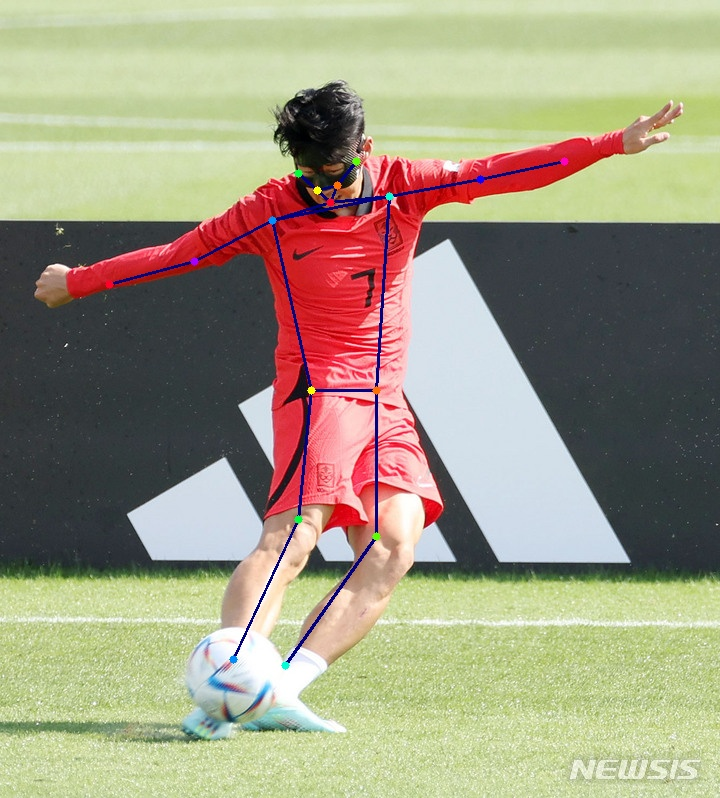
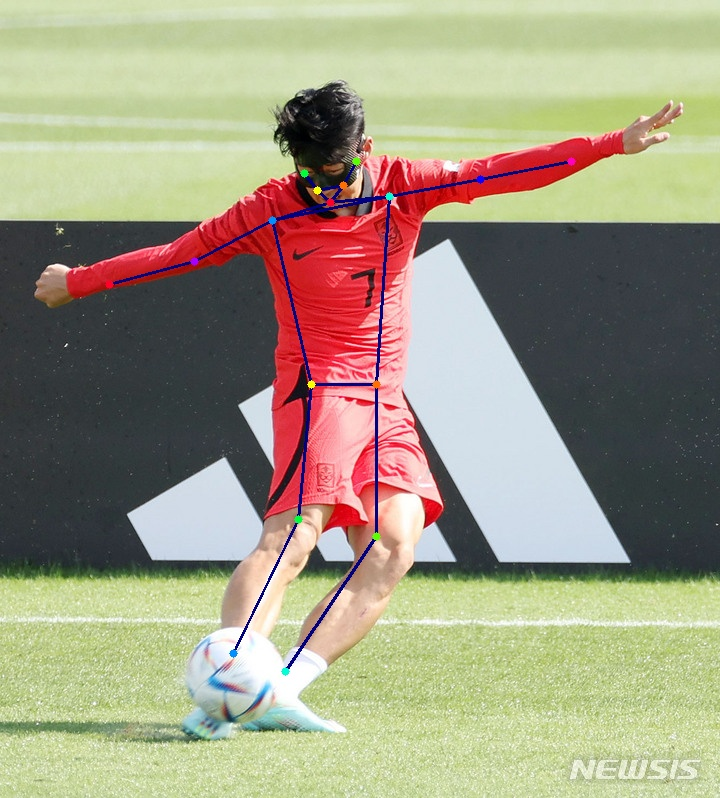
Add result of the example

diff --git a/inference.py b/inference.py
@@ -41,9 +41,11 @@ def inference(img_path: Path, img_size: tuple[int, int],
     
     # Feed to model
     tic = time()
-    heatmaps = vit_pose(img_tensor).detach().cpu().numpy()
+    heatmaps = vit_pose(img_tensor).detach().cpu().numpy() # N, 17, h/4, w/4
     elapsed_time = time()-tic
     print(f">>> Output size: {heatmaps.shape} ---> {elapsed_time:.4f} sec. elapsed [{elapsed_time**-1: .1f} fps]\n")
+    
+    
     
     kpts, probs = keypoints_from_heatmaps(heatmaps=heatmaps,
                                           center=np.array([[org_w//2, org_h//2]]), # x, y
@@ -54,7 +56,8 @@ def inference(img_path: Path, img_size: tuple[int, int],
                                           valid_radius_factor=0.0546875,
                                           use_udp=False,
                                           target_type='GaussianHeatmap')
-    points = np.concatenate([kpts[:, :, ::-1], probs], axis=2) # batch, num_people, (2+1)
+    print(kpts.shape, probs.shape)
+    points = np.concatenate([kpts[:, :, ::-1], probs], axis=2) # N, 17, (2+1)
 
     # Visualization 
     if save_result:
@@ -81,6 +84,8 @@ if __name__ == "__main__":
     CKPT_PATH = f"{CUR_DIR}/vitpose-b-multi-coco.pth"
     
     img_size = data_cfg['image_size']
+    if type(args.image_path) != list:
+         args.image_path = [args.image_path]
     for img_path in args.image_path:
         print(img_path)
         keypoints = inference(img_path=img_path, img_size=img_size, model_cfg=model_cfg, ckpt_path=CKPT_PATH, 

diff --git a/README.md b/README.md
@@ -1,5 +1,6 @@
 # ViTPose (simple version)
-An unofficial implementation of ViTPose [Y. Xu et al., 2022] 
+An unofficial implementation of ViTPose [Y. Xu et al., 2022] <br>
+![result_image](./examples/img1_result.jpg "Result Image")
 
 ## Usage
 ```
